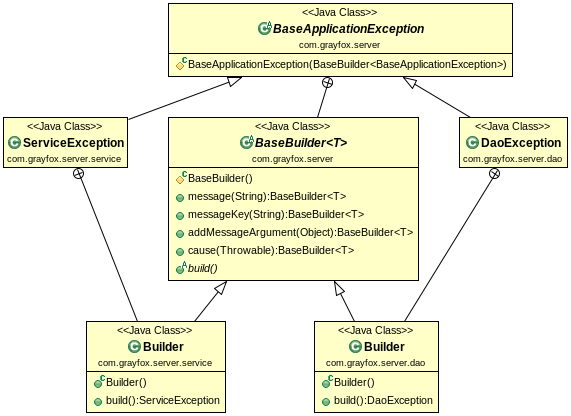
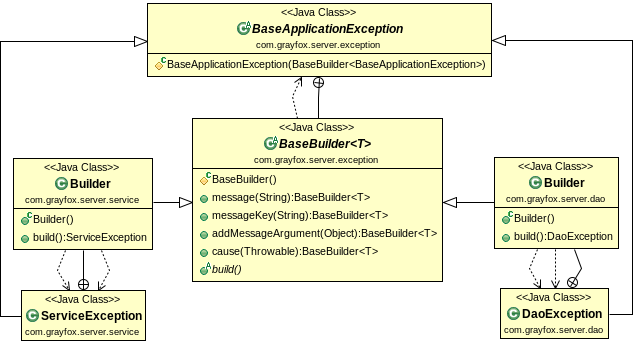
Moved BaseApplicationException to exception package

diff --git a/src/main/java/com/grayfox/server/exception/BaseApplicationException.java b/src/main/java/com/grayfox/server/exception/BaseApplicationException.java
@@ -13,7 +13,7 @@
  * See the License for the specific language governing permissions and
  * limitations under the License.
  */
-package com.grayfox.server;
+package com.grayfox.server.exception;
 
 import java.util.ArrayList;
 import java.util.List;

diff --git a/src/main/java/com/grayfox/server/service/ServiceException.java b/src/main/java/com/grayfox/server/service/ServiceException.java
@@ -15,7 +15,7 @@
  */
 package com.grayfox.server.service;
 
-import com.grayfox.server.BaseApplicationException;
+import com.grayfox.server.exception.BaseApplicationException;
 
 public class ServiceException extends BaseApplicationException {
 

diff --git a/src/main/java/com/grayfox/server/dao/DaoException.java b/src/main/java/com/grayfox/server/dao/DaoException.java
@@ -15,7 +15,7 @@
  */
 package com.grayfox.server.dao;
 
-import com.grayfox.server.BaseApplicationException;
+import com.grayfox.server.exception.BaseApplicationException;
 
 public class DaoException extends BaseApplicationException {
 
